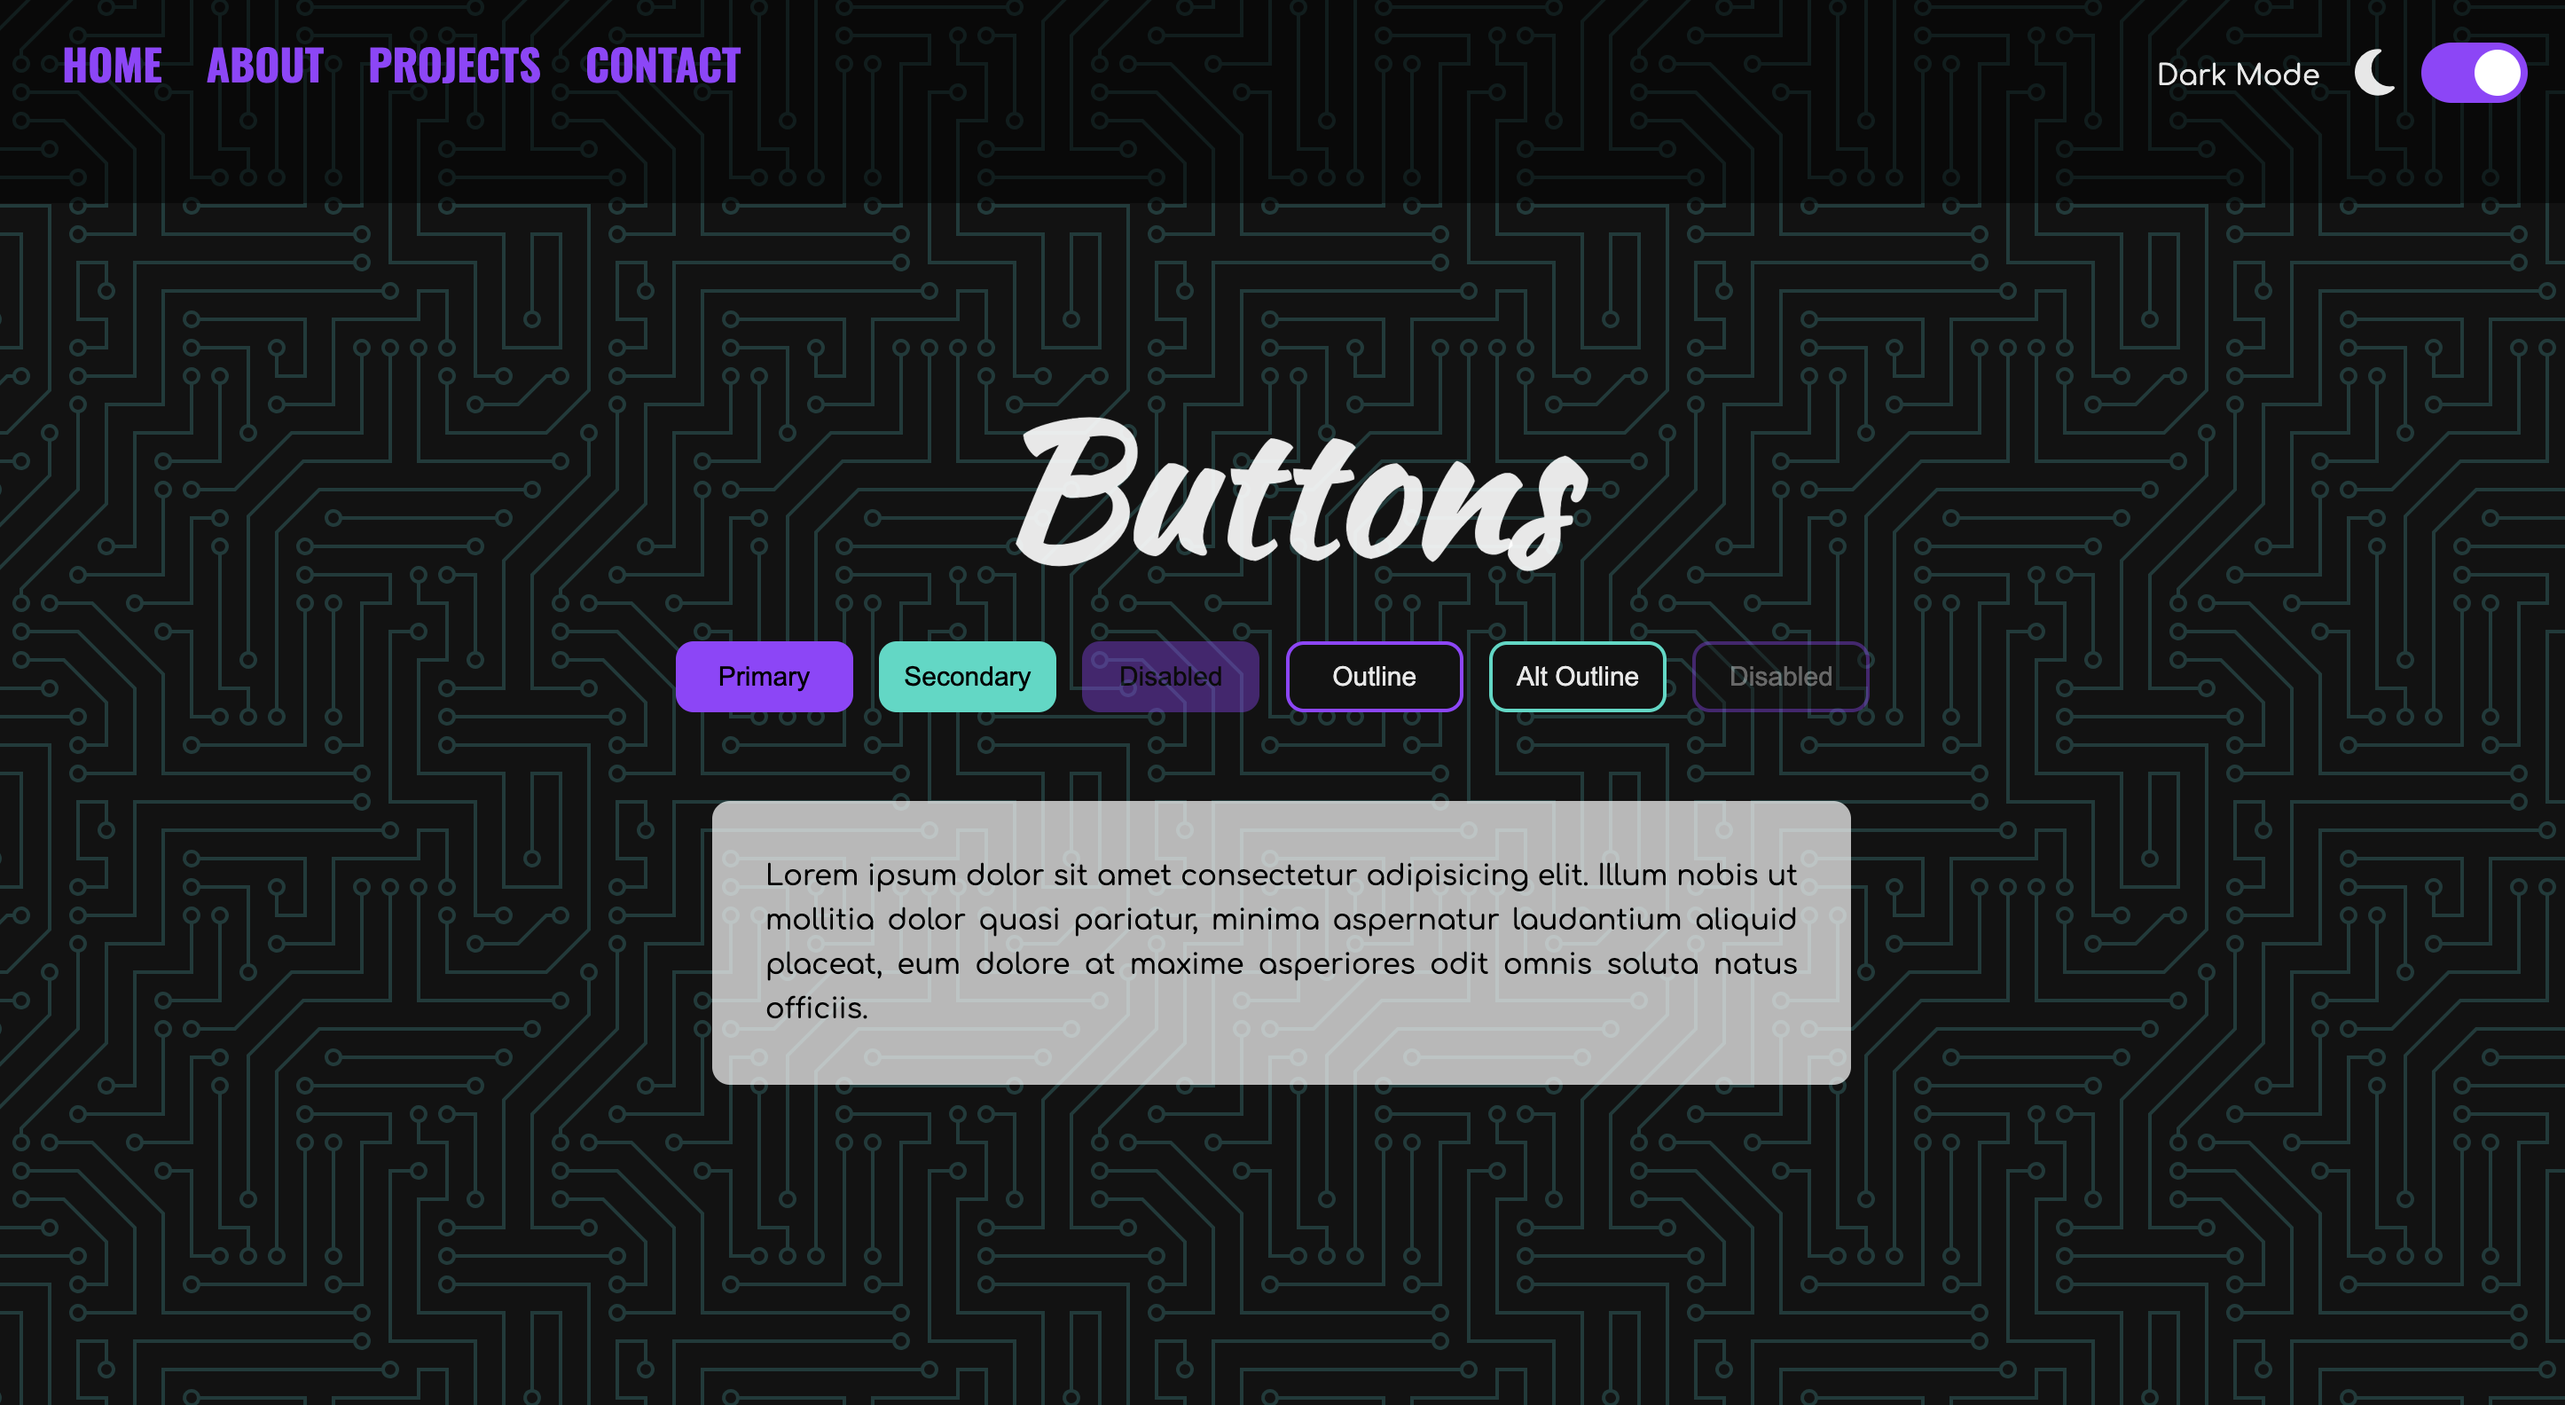
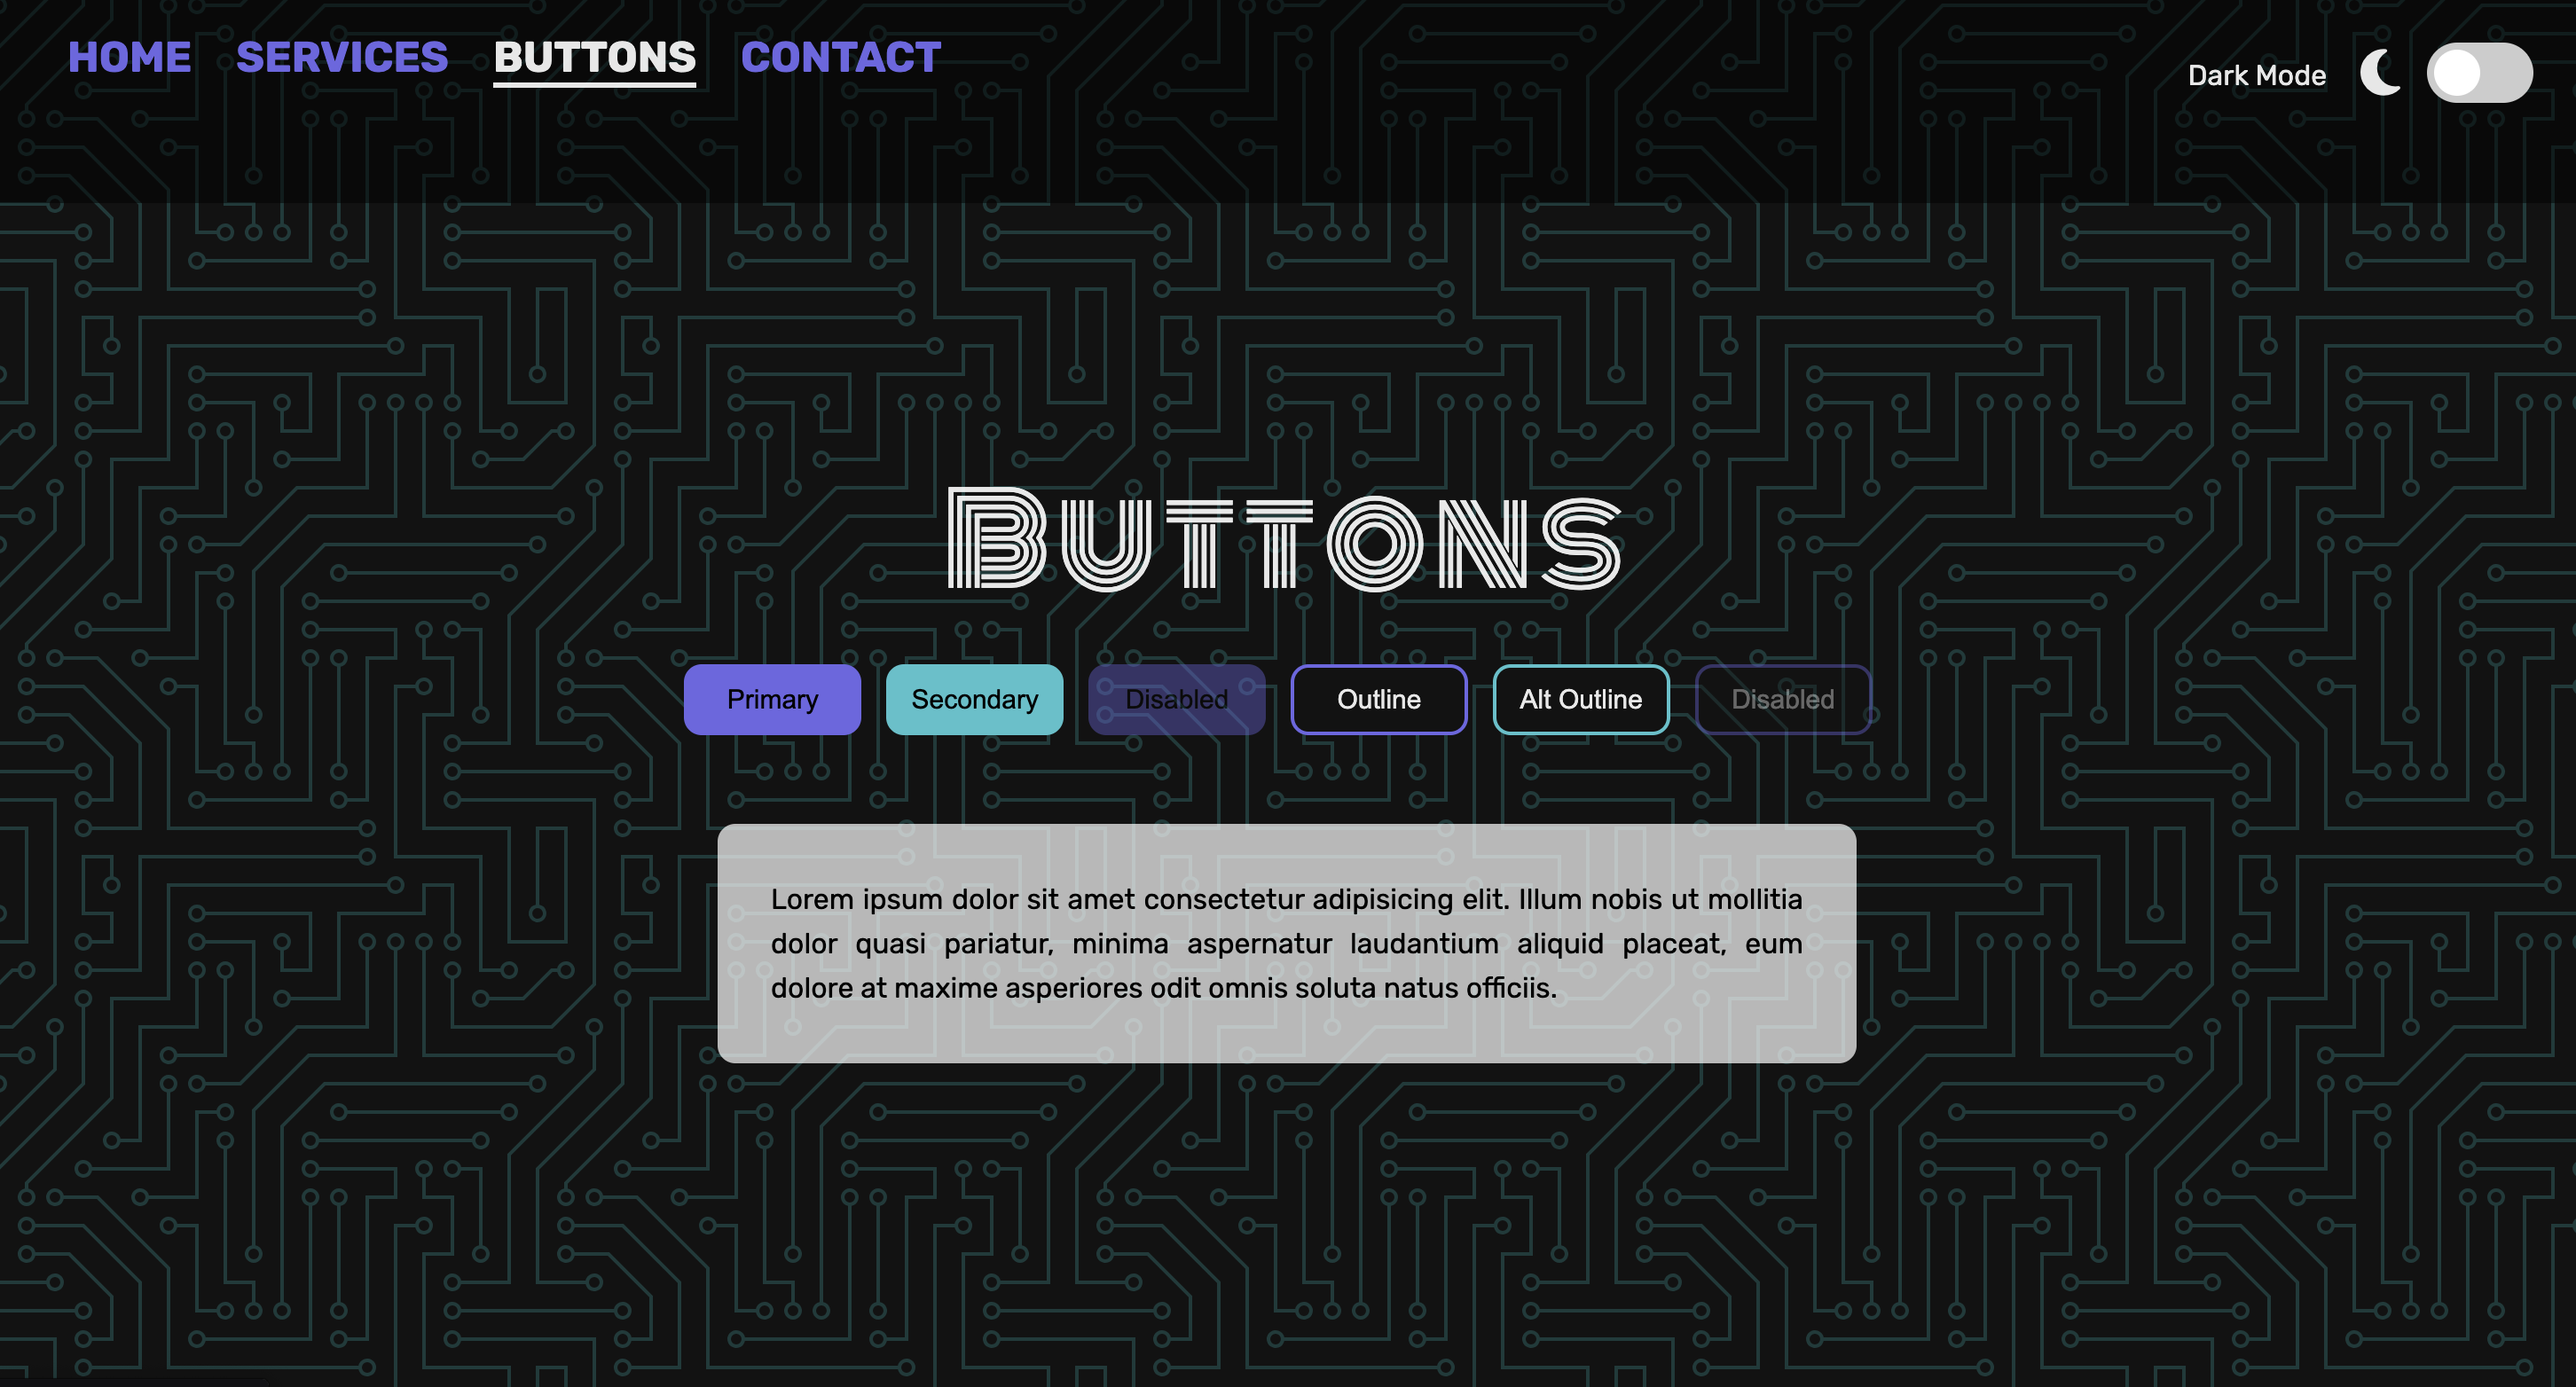
Updated images of documentation

Changed region(s): [[0.0, 0.1535, 1.0, 1.0], [0.0, 0.0307, 0.3734, 0.0614], [0.8402, 0.0307, 0.9959, 0.0921]]

diff --git a/index.html b/index.html
@@ -30,8 +30,8 @@
         </label>
         <ul>
             <li><a href="#home">HOME</a></li>
-            <li><a href="#about">ABOUT</a></li>
-            <li><a href="#projects">PROJECTS</a></li>
+            <li><a href="#about">SERVICES</a></li>
+            <li><a href="#projects">BUTTONS</a></li>
             <li><a href="#contact">CONTACT</a></li>
         </ul>
     </nav>
